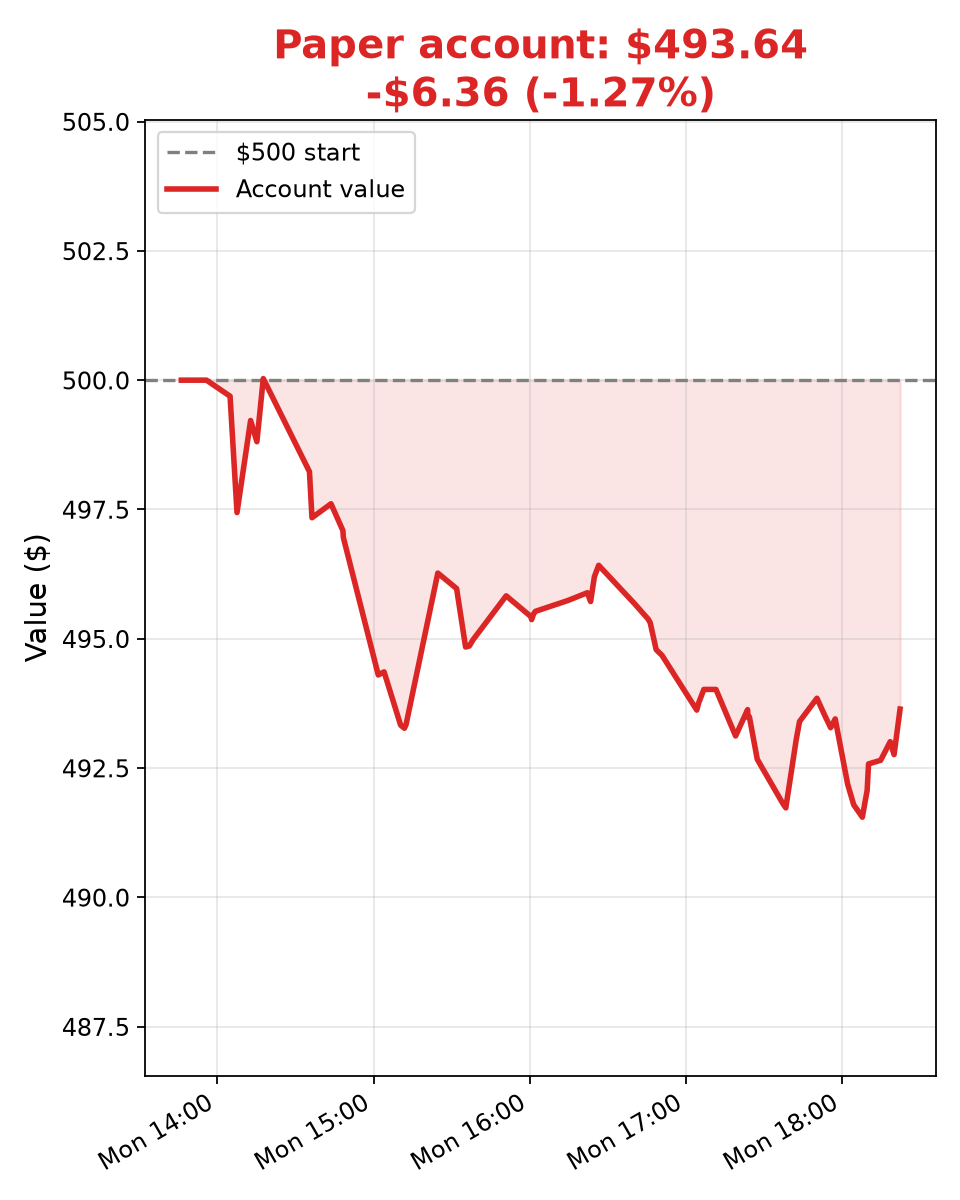
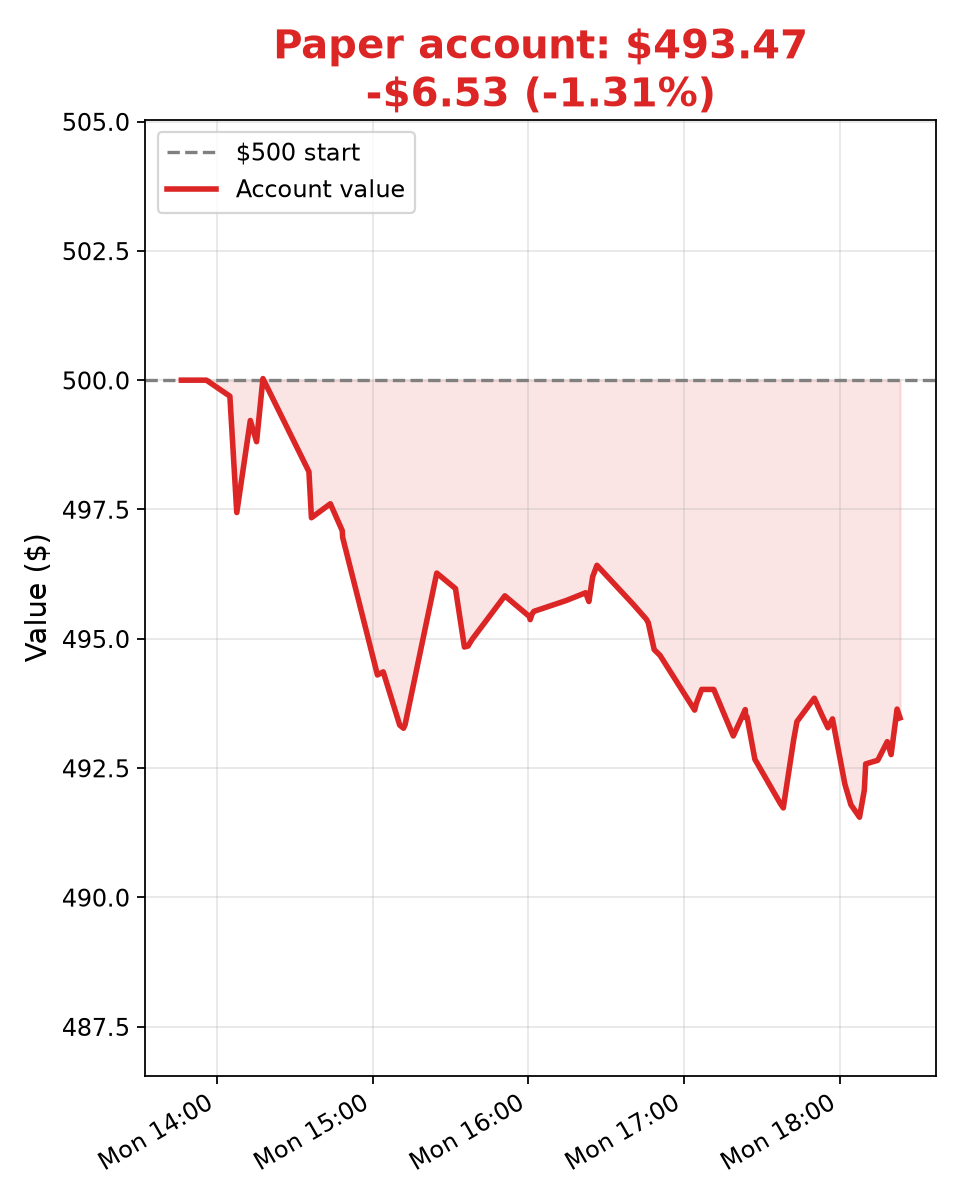
Update 2026-10-12T18:23:26Z

diff --git a/ledger.md b/ledger.md
@@ -99,3 +99,4 @@
 - 2026-10-12T18:18:21Z — total $493.01, cash $196.95 (Bot1 mark, no trade; FRO 58.815, DHT 25.92 marked; no stops/targets hit — tankers firming off afternoon lows after ASTS stop-out)
 - 2026-10-12T18:19:50Z — total $492.76, cash $196.95 (Bot4 mark, no trade; FRO 58.75, DHT 25.905 marked; no stops/targets hit — tankers stalled under lunch coil, slipped off 18:16 pop)
 - 2026-10-12T18:22:08Z — total $493.64, cash $196.95 (Bot2 mark, 1:22 PM CT, no trade; FRO 58.84, DHT 26.025 marked; no stops/targets hit — DHT poked back above the ~26.0 lunch coil on an 80k bar at 18:21, FRO still capped under ~58.9)
+- 2026-10-12T18:23:17Z — total $493.47, cash $196.95 (Stock Bot mark, 1:23 PM CT, no trade; FRO 58.835, DHT 25.995 marked; no stops/targets hit — DHT's 18:21 poke above the ~26.0 coil faded back under on the next bar, FRO still under ~58.9)
